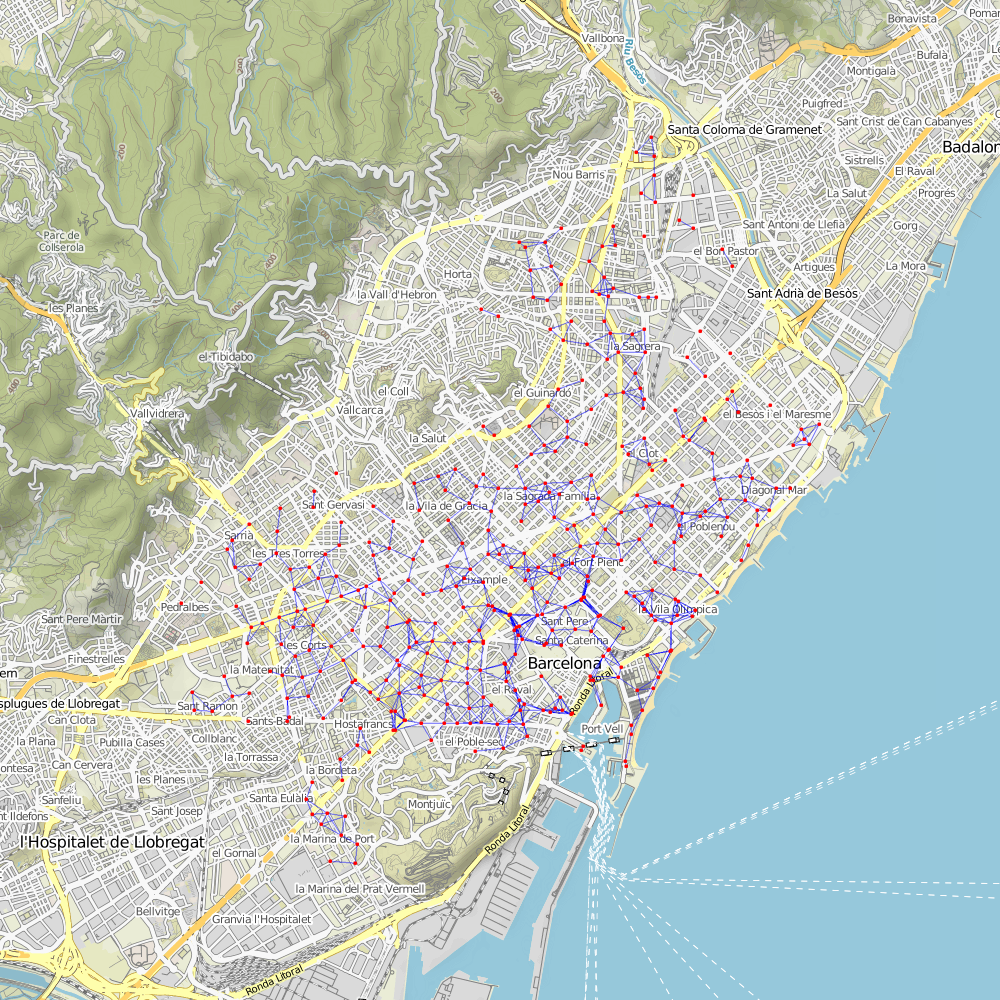
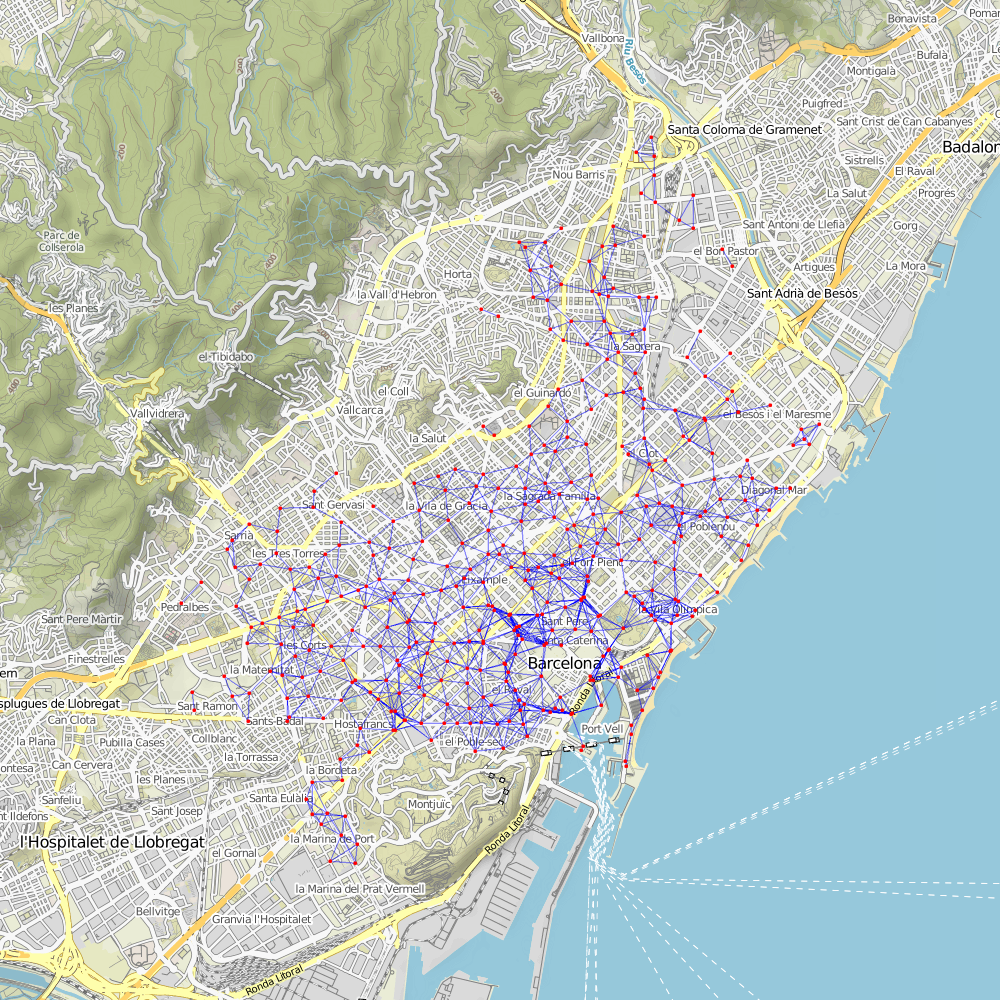
Data cambiado para que funcione con estaciones

diff --git a/data.py b/data.py
@@ -13,21 +13,22 @@ def Graph(dist = 1000):
     G = nx.Graph()
     for st in bicing.itertuples():
         coord1 = (st.lat, st.lon)
-        G.add_node(coord1)
+        G.add_node(st)
         for dt in bicing.itertuples():
             coord2 = (dt.lat, dt.lon)
-            if(st != dt and haversine(coord1, coord2) <= dist): G.add_edge(coord1, coord2)
+            if(st != dt and haversine(coord1, coord2) <= dist): G.add_edge(st, dt)
+    print("Graph created!")
     return G
 
 def Plotgraph(G):
     try:
         m_bcn = stm.StaticMap(1000, 1000)
         for node in G.nodes:
-            marker = stm.CircleMarker((node[1], node[0]) , 'red', 3 )#esto es el tamaño del punto
+            marker = stm.CircleMarker((node.lon, node.lat) , 'red', 3 )#esto es el tamaño del punto
             m_bcn.add_marker(marker)
 
         for edge in G.edges:
-            line = stm.Line(((edge[0][1],edge[0][0]),(edge[1][1],edge[1][0])), 'blue', 0)
+            line = stm.Line(((edge[0].lon, edge[0].lat),(edge[1].lon, edge[1].lat)), 'blue', 0)
             m_bcn.add_line(line)
 
         image = m_bcn.render()
